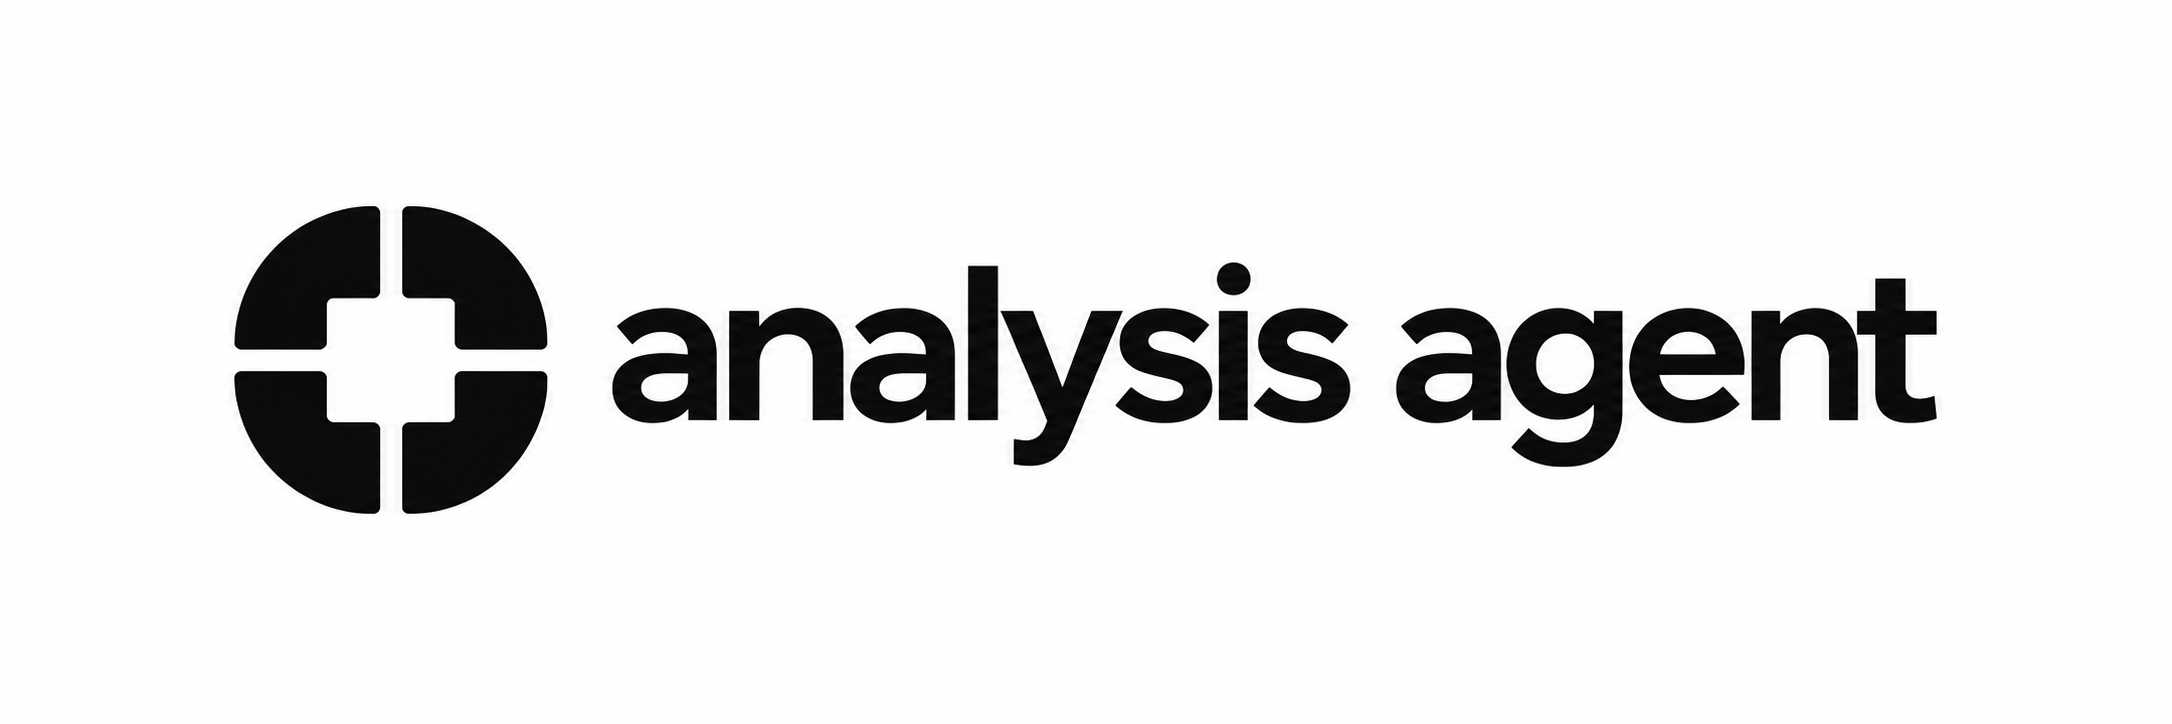
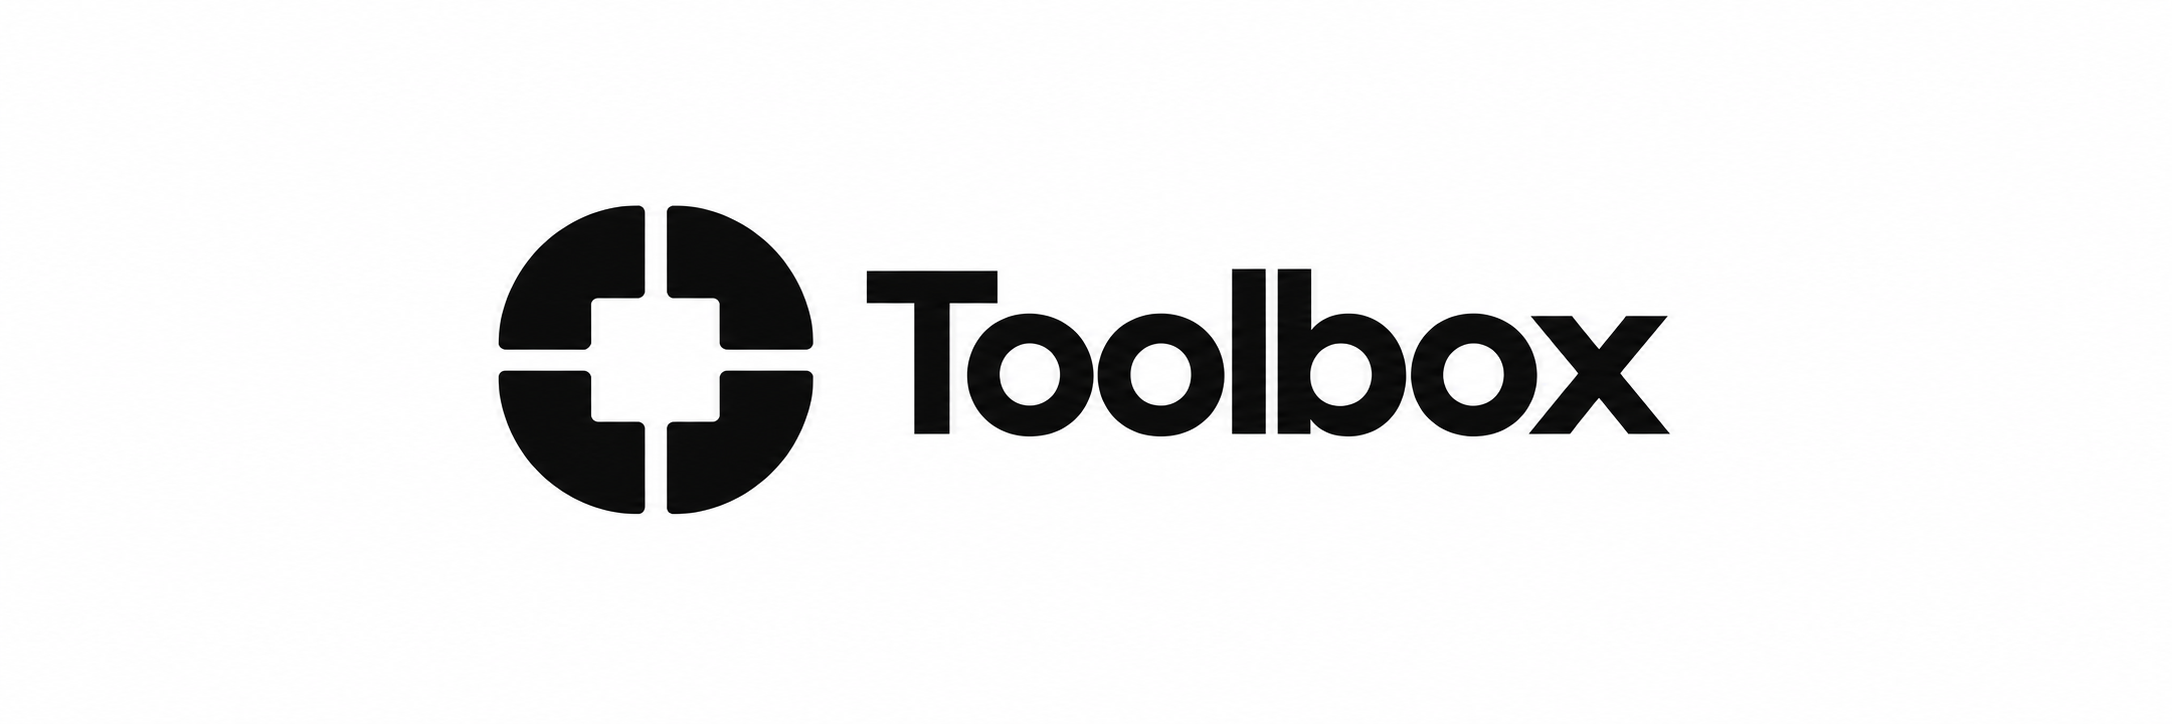
Rename plugin to Toolbox and marketplace to Batu

Changed region(s): [[0.0925, 0.2735, 0.8946, 0.7293]]

diff --git a/README.md b/README.md
@@ -1,10 +1,10 @@
-# ![Analysis agent plugin](assets/header.png)
+# ![Toolbox](assets/header.png)
 
 Research a technical question, analyse a proposed change, audit a repository, and implement selected outcomes with evidence saved alongside the project. Four skills share one artifact workflow and common references.
 
 ## Install from GitHub
 
-Choose your client below. These instructions install from [BatuhanTopcu/analysis-agent-plugin](https://github.com/BatuhanTopcu/analysis-agent-plugin); no contributor setup is needed. The published `main` branch currently contains development version **0.0.1**. There is no release tag yet.
+Choose your client below. These instructions install from [BatuhanTopcu/toolbox](https://github.com/BatuhanTopcu/toolbox); no contributor setup is needed. The published `main` branch currently contains development version **0.0.1**. There is no release tag yet.
 
 Have your client and Git installed, then install [Bun](https://bun.sh/docs/installation) **1.4.0 or newer** and make it available on the agent's PATH. Bun runs the artifact helper; 1.4.0 is verified. Check it with:
 
@@ -19,8 +19,8 @@ Choose [Codex](#codex), [Claude Code](#claude-code), [Cursor](#cursor), [pi](#pi
 Run in your terminal:
 
 ```sh
-codex plugin marketplace add https://github.com/BatuhanTopcu/analysis-agent-plugin.git --ref main
-codex plugin add analysis-agent-plugin@analysis-agent-plugin-marketplace
+codex plugin marketplace add https://github.com/BatuhanTopcu/toolbox.git --ref main
+codex plugin add toolbox@batu
 ```
 
 Open a new Codex session in the repository you want to work on. Confirm that `analyse`, `research`, `improve`, and `implement` are available, then try:
@@ -29,21 +29,21 @@ Open a new Codex session in the repository you want to work on. Confirm that `an
 $research explain how this repository handles failed requests
 ```
 
-The install commands were checked against Codex CLI 0.159.0. If your CLI has no `plugin` command, update the client first.
+Command syntax was checked with Codex CLI 0.150.1. If your CLI has no `plugin` command, update the client first.
 
 ### Claude Code
 
 Run in your terminal to install for your user across projects:
 
 ```sh
-claude plugin marketplace add BatuhanTopcu/analysis-agent-plugin --scope user
-claude plugin install analysis-agent-plugin@analysis-agent-plugin-marketplace --scope user
+claude plugin marketplace add BatuhanTopcu/toolbox --scope user
+claude plugin install toolbox@batu --scope user
 ```
 
 Start Claude Code in your target repository, or enter `/reload-plugins` in an existing session. Confirm the four namespaced skills, then try:
 
 ```text
-/analysis-agent-plugin:research explain how this repository handles failed requests
+/toolbox:research explain how this repository handles failed requests
 ```
 
 See [Claude Code's installation guide](https://code.claude.com/docs/en/plugins/install) for installation scopes and plugin management.
@@ -53,7 +53,7 @@ See [Claude Code's installation guide](https://code.claude.com/docs/en/plugins/i
 For Cursor's direct GitHub import, enter this in Agent chat:
 
 ```text
-/add-plugin https://github.com/BatuhanTopcu/analysis-agent-plugin
+/add-plugin https://github.com/BatuhanTopcu/toolbox
 ```
 
 Open **Customize** and confirm the four skills are available. Invoke a skill from the chat's skill picker, or ask the agent to use `research` to explain how the repository handles failed requests.
@@ -65,7 +65,7 @@ Cursor support describes this command, but also reports that GitHub-only imports
 Run in your terminal:
 
 ```sh
-pi install https://github.com/BatuhanTopcu/analysis-agent-plugin.git
+pi install https://github.com/BatuhanTopcu/toolbox.git
 ```
 
 Restart pi in your target repository, or enter `/reload`, then try:
@@ -82,14 +82,14 @@ OpenCode V2 loads native skills from configured directories. Clone the complete 
 
 ```sh
 mkdir -p "$HOME/.local/share"
-git clone https://github.com/BatuhanTopcu/analysis-agent-plugin.git \
-  "$HOME/.local/share/analysis-agent-plugin"
+git clone https://github.com/BatuhanTopcu/toolbox.git \
+  "$HOME/.local/share/toolbox"
 ```
 
 From the repository you want to work on, register its skills:
 
 ```sh
-bun "$HOME/.local/share/analysis-agent-plugin/scripts/configure.mjs" \
+bun "$HOME/.local/share/toolbox/scripts/configure.mjs" \
   opencode --project "$PWD"
 ```
 
@@ -116,7 +116,7 @@ $analyse assess moving this service to streaming responses using that research
 $implement .artifacts/analyse/change/streaming-responses/ANALYSIS.md
 ```
 
-For an audit, use `$improve audit the payment module for concrete reliability improvements`, then select the findings you want `$implement` to carry out. In Claude Code, replace `$analyse` with `/analysis-agent-plugin:analyse`; in pi, use `/skill:analyse`. The other skill names follow the same pattern.
+For an audit, use `$improve audit the payment module for concrete reliability improvements`, then select the findings you want `$implement` to carry out. In Claude Code, replace `$analyse` with `/toolbox:analyse`; in pi, use `/skill:analyse`. The other skill names follow the same pattern.
 
 If the analysis is absent from the conversation, invoke `implement` without a target. It lists available artifacts with their status and asks which artifact and scope to implement. It does not automatically select the latest artifact or execute every finding.
 
@@ -127,8 +127,8 @@ Analysis and audits create task files only when requested; research creates none
 For Codex, refresh the marketplace snapshot and reinstall from it:
 
 ```sh
-codex plugin marketplace upgrade analysis-agent-plugin-marketplace
-codex plugin add analysis-agent-plugin@analysis-agent-plugin-marketplace
+codex plugin marketplace upgrade batu
+codex plugin add toolbox@batu
 ```
 
 Open a new session and confirm the skills. The second command installs the package again from the refreshed source; see the [Codex installation implementation](https://github.com/openai/codex/blob/444da310e108da16aaeb18fd790b0ac464f08aca/codex-rs/core-plugins/src/manager.rs#L2245).
@@ -136,8 +136,8 @@ Open a new session and confirm the skills. The second command installs the packa
 For Claude Code, refresh the marketplace and installed plugin:
 
 ```sh
-claude plugin marketplace update analysis-agent-plugin-marketplace
-claude plugin update analysis-agent-plugin@analysis-agent-plugin-marketplace --scope user
+claude plugin marketplace update batu
+claude plugin update toolbox@batu --scope user
 ```
 
 Then restart Claude Code or enter `/reload-plugins`. Custom marketplaces do not enable auto-update by default. An unchanged manifest version can cause Claude's copied installation to skip an update even when Git has new commits. Local-directory previews load in place. See [Claude's update guide](https://code.claude.com/docs/en/plugins/install#keep-plugins-updated) and [version rules](https://code.claude.com/docs/en/plugins/loading#versions-and-updates).
@@ -145,7 +145,7 @@ Then restart Claude Code or enter `/reload-plugins`. Custom marketplaces do not 
 For pi:
 
 ```sh
-pi update https://github.com/BatuhanTopcu/analysis-agent-plugin.git
+pi update https://github.com/BatuhanTopcu/toolbox.git
 ```
 
 Then restart pi or enter `/reload`.
@@ -153,7 +153,7 @@ Then restart pi or enter `/reload`.
 For OpenCode's checkout:
 
 ```sh
-git -C "$HOME/.local/share/analysis-agent-plugin" pull --ff-only
+git -C "$HOME/.local/share/toolbox" pull --ff-only
 ```
 
 Restart OpenCode after pulling. For Cursor, use your team marketplace's refresh controls; direct GitHub imports have the update limitation described [above](#cursor). Local Cursor checkouts can be pulled with Git and loaded with **Developer: Reload Window**.
@@ -172,14 +172,14 @@ grep -qxF '.artifacts/' "$ignore_file" || printf '\n.artifacts/\n' >> "$ignore_f
 
 Git ignore rules do not affect files already tracked. Artifacts remain on disk for review and later implementation.
 
-The skills normally run the artifact helper themselves. To inspect or create artifacts manually, replace `/absolute/path/analysis-agent-plugin` with the complete installed package path and run from your target repository:
+The skills normally run the artifact helper themselves. To inspect or create artifacts manually, replace `/absolute/path/toolbox` with the complete installed package path and run from your target repository:
 
 ```sh
-bun /absolute/path/analysis-agent-plugin/shared/scripts/artifact-tool.ts list \
+bun /absolute/path/toolbox/shared/scripts/artifact-tool.ts list \
   --repo "$PWD" --json
-bun /absolute/path/analysis-agent-plugin/shared/scripts/artifact-tool.ts init \
+bun /absolute/path/toolbox/shared/scripts/artifact-tool.ts init \
   --repo "$PWD" --mode change --name streaming-responses
-bun /absolute/path/analysis-agent-plugin/shared/scripts/artifact-tool.ts validate \
+bun /absolute/path/toolbox/shared/scripts/artifact-tool.ts validate \
   "$PWD/.artifacts/analyse/change/streaming-responses"
 ```
 
@@ -190,8 +190,8 @@ Modes are `change`, `improve`, and `research`. `add-task <artifact-dir> --title 
 Clone the repository when developing or previewing local changes:
 
 ```sh
-git clone https://github.com/BatuhanTopcu/analysis-agent-plugin.git
-cd analysis-agent-plugin
+git clone https://github.com/BatuhanTopcu/toolbox.git
+cd toolbox
 ```
 
 For a session-only Claude Code preview:
@@ -200,14 +200,14 @@ For a session-only Claude Code preview:
 claude --plugin-dir "$PWD"
 ```
 
-For a Codex preview, use `codex plugin marketplace add "$PWD"` as the marketplace source, then install `analysis-agent-plugin@analysis-agent-plugin-marketplace`. Use one source for that marketplace name at a time.
+For a Codex preview, use `codex plugin marketplace add "$PWD"` as the marketplace source, then install `toolbox@batu`. Use one source for that marketplace name at a time.
 
 For Cursor, clone the complete repository into its local plugin directory:
 
 ```sh
 mkdir -p "$HOME/.cursor/plugins/local"
-git clone https://github.com/BatuhanTopcu/analysis-agent-plugin.git \
-  "$HOME/.cursor/plugins/local/analysis-agent-plugin"
+git clone https://github.com/BatuhanTopcu/toolbox.git \
+  "$HOME/.cursor/plugins/local/toolbox"
 ```
 
 Restart Cursor or run **Developer: Reload Window**, then confirm the skills in Customize. Organization policy may require **Allow Local Plugin Imports**. External symlinks are skipped, and an installed marketplace plugin with the same name takes precedence. See [Cursor's local plugin instructions](https://cursor.com/docs/plugins#test-plugins-locally).

diff --git a/shared/references/evaluations.md b/shared/references/evaluations.md
@@ -12,8 +12,8 @@ Before changing skill instructions, copy the complete package (excluding
 current package using fresh sessions and the same prompts:
 
 ```sh
-node scripts/evaluate.mjs --run --baseline /absolute/snapshot/analysis-agent-plugin
-node scripts/evaluate.mjs --run --case resume --baseline /absolute/snapshot/analysis-agent-plugin
+node scripts/evaluate.mjs --run --baseline /absolute/snapshot/toolbox
+node scripts/evaluate.mjs --run --case resume --baseline /absolute/snapshot/toolbox
 ```
 
 Use `--case` to select a bounded case, `--plugin` to select the current package,
